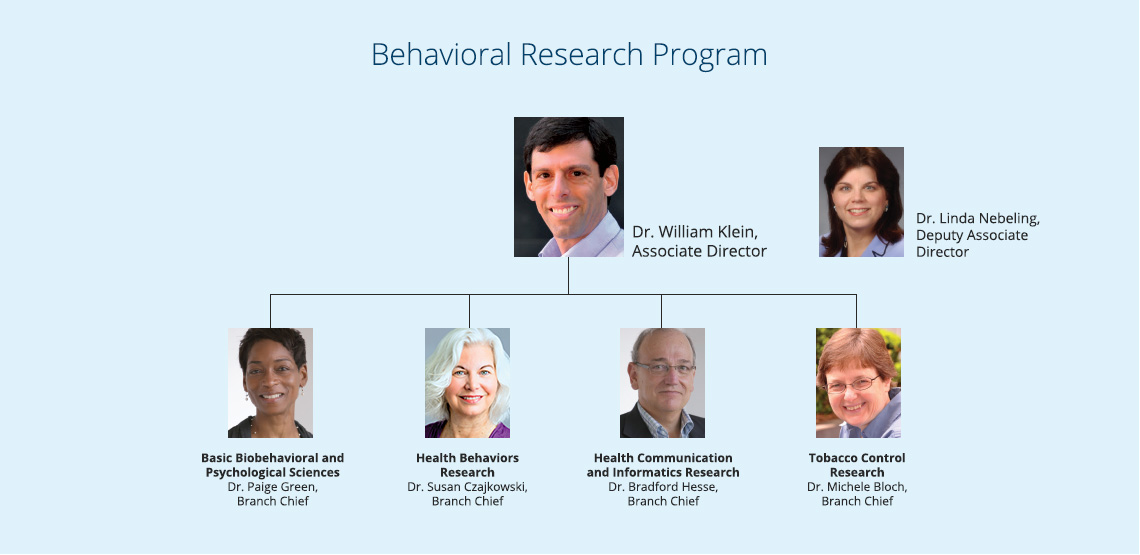
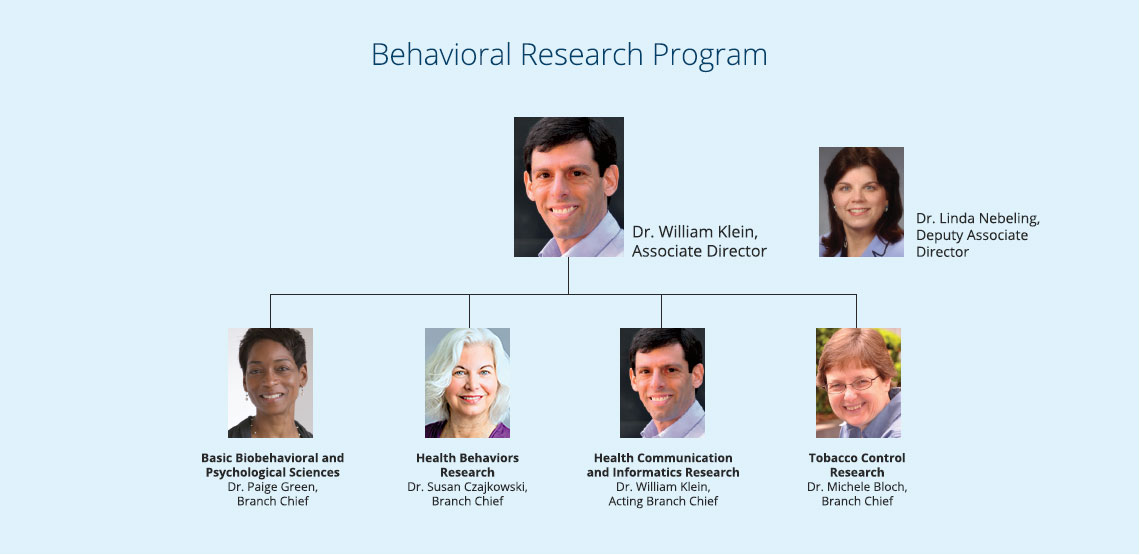
Org chart updates

Changed region(s): [[0.5219, 0.582, 0.6447, 0.7964], [0.5219, 0.8577, 0.6447, 0.9189]]

diff --git a/od/orgchart.html b/od/orgchart.html
@@ -170,7 +170,7 @@ height="0" width="0" style="display:none;visibility:hidden" title="Google Tag Ma
 							<li><a href="../research-emphasis/precision-medicine.html">Precision Medicine &amp; Population Health</a></li>
 							<li><a href="../research-emphasis/inherited-syndromes.html">Hereditary Cancer Syndromes</a></li>
 							<li><a href="../research-emphasis/rural.html">Rural Cancer Control</a></li>
-
+							<!--<li><a href="../research-emphasis/supplement.html">Supplement Initiatives</a></li>-->
 						</ul>
 					</li>
 					<!-- InstanceBeginEditable name="navigation" -->
@@ -255,11 +255,11 @@ height="0" width="0" style="display:none;visibility:hidden" title="Google Tag Ma
 				<area shape="rect" coords="10,152,325,229" href="/IS/chambers.html" alt="Deputy Director for Implementation Science - Dr. David Chambers">
 				<area shape="rect" coords="491,620,841,682" href="https://surveillance.cancer.gov/branches/srab/" alt="Statistical Methodology and Applications - Dr. Eric Feuer">
 				<area shape="rect" coords="54,995,404,1057" href="https://epi.grants.cancer.gov/cteb/" alt="Clinical and Translational Epidemiology Branch - Dr. Andrew Feedman">
-				<area shape="rect" coords="491,492,842,554" href="https://surveillance.cancer.gov/branches/sib/" alt="Surveillance Informatics - Dr. Paul Fearn">
+				<area shape="rect" coords="491,492,842,554" href="https://surveillance.cancer.gov/branches/sib/" alt="Surveillance Informatics - Dr. Steve Friedman">
 				<area shape="rect" coords="54,1058,405,1120" href="https://epi.grants.cancer.gov/staff/subar.html" alt="Risk Factor Assessment - Dr. Amy Subar">
 				<area shape="rect" coords="492,1059,849,1119" href="/brp/tcrb/"  alt="Tobacco Control Research Branch - Dr. Michele Bloch" >
 				<area shape="rect" coords="492,931,849,992" href="/brp/hbrb/index.html" alt="Health Behaviors Research Branch - Dr. Susan Czajkowski">
-				<area shape="rect" coords="492,994,848,1055" href="/brp/hcirb/" alt="Health Communication &amp; Informatics Research Branch - Dr. Bradford Hesse">
+				<area shape="rect" coords="492,994,848,1055" href="/brp/hcirb/" alt="Health Communication &amp; Informatics Research Branch - Dr. William Klein">
 				<area shape="rect" coords="55,933,405,992" href="https://epi.grants.cancer.gov/geb/" alt="Genomic Epidemiology - Dr. Elizabeth Gillanders">
 				<area shape="rect" coords="492,556,841,616" href="https://surveillance.cancer.gov/branches/dqaib/" alt="Data Analytics - Dr. Serban Negoita">
 				<area shape="rect" coords="53,556,403,618" href="https://healthcaredelivery.cancer.gov/about/orb/" alt="Outcomes Research Branch - Dr. Ashley Wilder Smith" >
@@ -345,7 +345,7 @@ height="0" width="0" style="display:none;visibility:hidden" title="Google Tag Ma
 			<div class="row">
 				<div class="col-lg-12">
 					<p class="tagline">NIH...Turning Discovery Into Health<sup>®</sup></p>
-					<p class="update"><span class="bold">Last Updated:</span> <!-- InstanceBeginEditable name="Last Updated" -->June 25, 2018<!-- InstanceEndEditable --></p>
+					<p class="update"><span class="bold">Last Updated:</span> <!-- InstanceBeginEditable name="Last Updated" -->October  22, 2018<!-- InstanceEndEditable --></p>
 				</div> <!-- /.col-lg-12 -->
 			</div> <!-- /.row -->
 		</div><!-- /.col-md-8 .col-md-offset-1 -->

diff --git a/bb/index.html b/bb/index.html
@@ -108,7 +108,7 @@ through a number of webinars and workshops.</p>
             <area shape="rect" coords="514,118,768,258" href="https://surveillance.cancer.gov/about/bios/penberthyl.html" alt="Dr. Lynne Penberthy, Associate Director">
             <area shape="rect" coords="818,148,1050,259" href="https://surveillance.cancer.gov/about/bios/cronink.html" alt="Dr. Kathleen Cronin, Deputy Associate Director">
             <area shape="rect" coords="199,326,336,508" href="https://surveillance.cancer.gov/about/bios/negoita.html" alt="Data Quality, Analysis, and Interpretation: Dr. Serban Negoita, Branch Chief">
-            <area shape="rect" coords="398,326,545,509" href="https://surveillance.cancer.gov/about/bios/fearnp.html" alt="Surveillance Informatics: Dr. Paul Fearn, Branch Chief">
+            <area shape="rect" coords="398,326,545,509" href="https://surveillance.cancer.gov/about/bios/friedmans.html" alt="Surveillance Informatics: Dr. Steve Friedman, Acting Branch Chief">
             <area shape="rect" coords="611,330,728,497" href="https://surveillance.cancer.gov/about/bios/mariottoa.html" alt="Data Analytics: Dr. Angela Mariotto, Branch Chief">
             <area shape="rect" coords="808,328,926,511" href="https://surveillance.cancer.gov/about/bios/feuerr.html" alt="Statistical Methods and Modeling: Dr. Eric Feuer, Branch Chief">
             </map>
@@ -120,7 +120,7 @@ through a number of webinars and workshops.</p>
             <area shape="rect" coords="819,147,1041,258" href="/brp/" alt="Dr. Linda Nebeling, Deputy Associate Director">
             <area shape="rect" coords="197,327,351,509" href="/brp/bbpsb/" alt="Basic Biobehavioral and Psychological Sciences: Dr. Paige Green, Branch Chief">
             <area shape="rect" coords="401,328,536,509" href="/brp/hbrb/" alt="Health Behaviors Research: Dr. Susan Czajkowski, Branch Chief">
-            <area shape="rect" coords="584,328,741,509" href="/brp/hcirb/" alt="Health Communication and Informatics Research: Dr. Bradford Hesse, Branch Chief">
+            <area shape="rect" coords="584,328,741,509" href="/brp/hcirb/" alt="Health Communication and Informatics Research: Dr. William Klein, Acting Branch Chief">
             <area shape="rect" coords="806,328,910,509" href="/brp/tcrb/" alt="Tobacco Control Research: Dr. Michele Bloch, Branch Chief">
             </map>
       </div>
